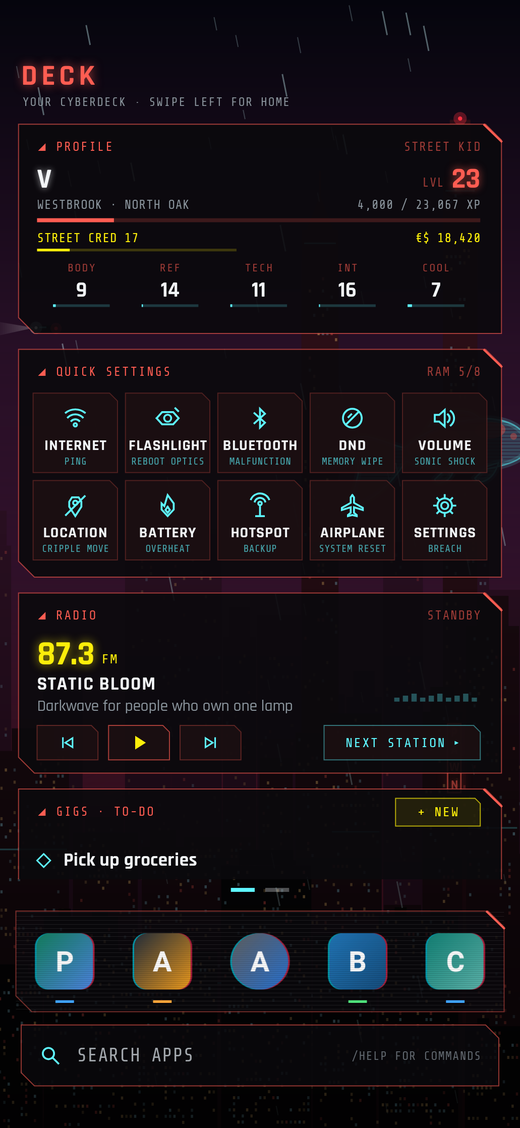
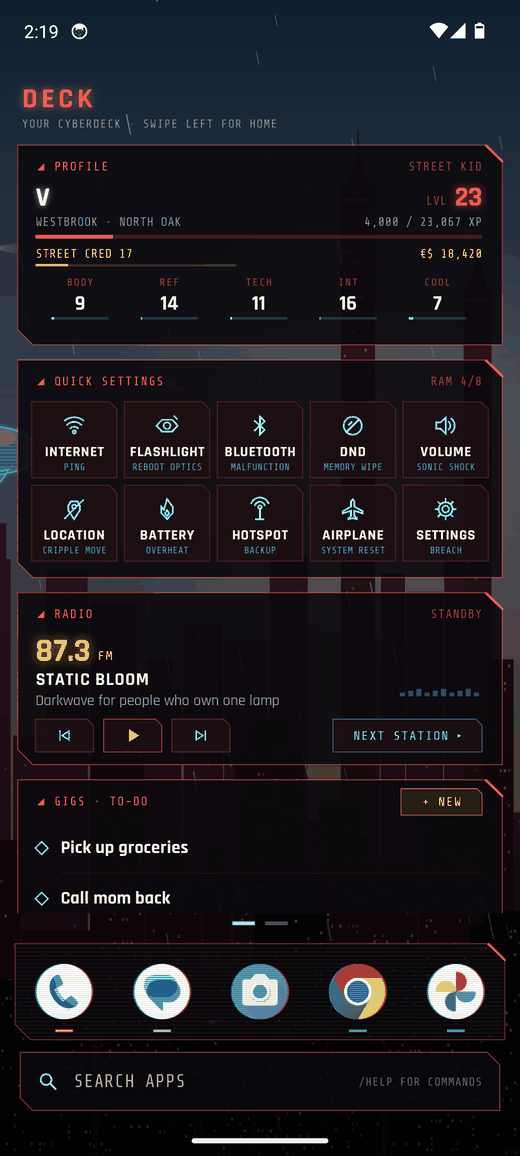
CyberLauncher: README screenshots from the CI emulator [skip ci]
Home, drawer, deck, menu, scan and settings images are now real emulator
captures with real app icons. The CI tour also gets a long-press drag
photographed mid-move.

Claude-Session: https://claude.ai/code/session_01EWZSdxVE7LRMbg64JZJ4w6

diff --git a/CyberLauncher/README.md b/CyberLauncher/README.md
@@ -101,10 +101,12 @@ Open `CyberLauncher/` in Android Studio, or run `./gradlew assembleRelease`.
 Builds are signed with `keystore/shared.jks`, a throwaway key committed on purpose so every CI
 build installs over the previous one. It is fine for sideloading; don't use it for the Play Store.
 
-CI also boots an emulator, runs the release build as the home app to check it survives, and
-attaches screenshots to the release. Debug builds take `--es demo <screen>` extras
-(`seed`, `drawer`, `deck`, `settings`, `scan:N`, `menu:N`, `homemenu`, `levelup`, `theme:<id>`) so the
-screenshots don't depend on tapping coordinates. Release builds ignore them.
+CI also boots an emulator, runs the release build as the home app to check it survives real
+taps and swipes, and attaches screenshots to the release (the ones above come from there). Debug
+builds take `--es demo <screen>` extras (`seed`, `home`, `drawer`, `deck`, `settings`, `scan:N`,
+`menu:N`, `homemenu`, `levelup`, `theme:<id>`) so most screenshots don't depend on tapping
+coordinates, and log what the home screen did with each touch under the `CyberTouch` tag.
+Release builds ignore both.
 
 ## Disclaimer
 
